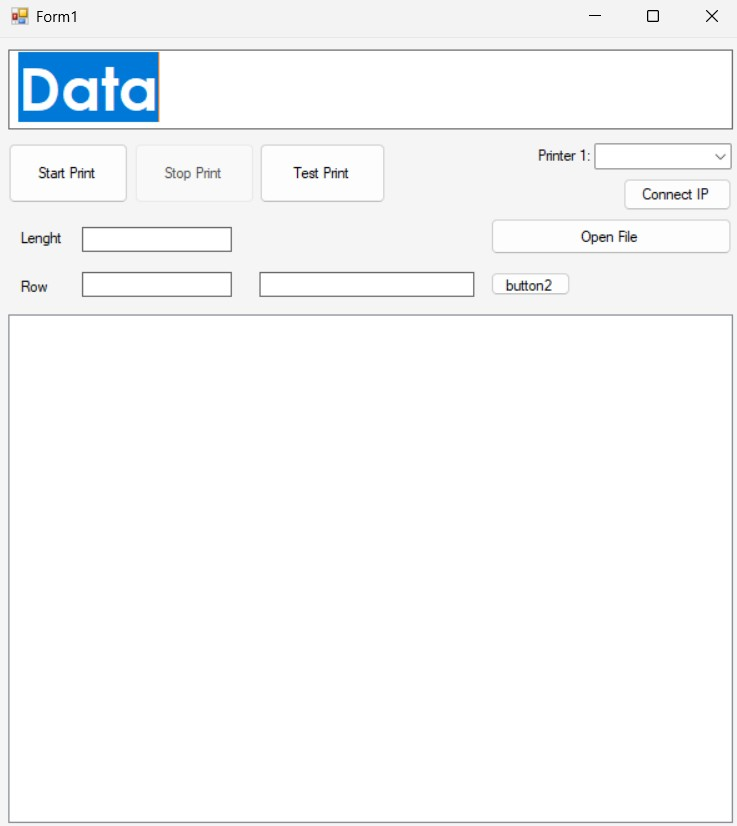
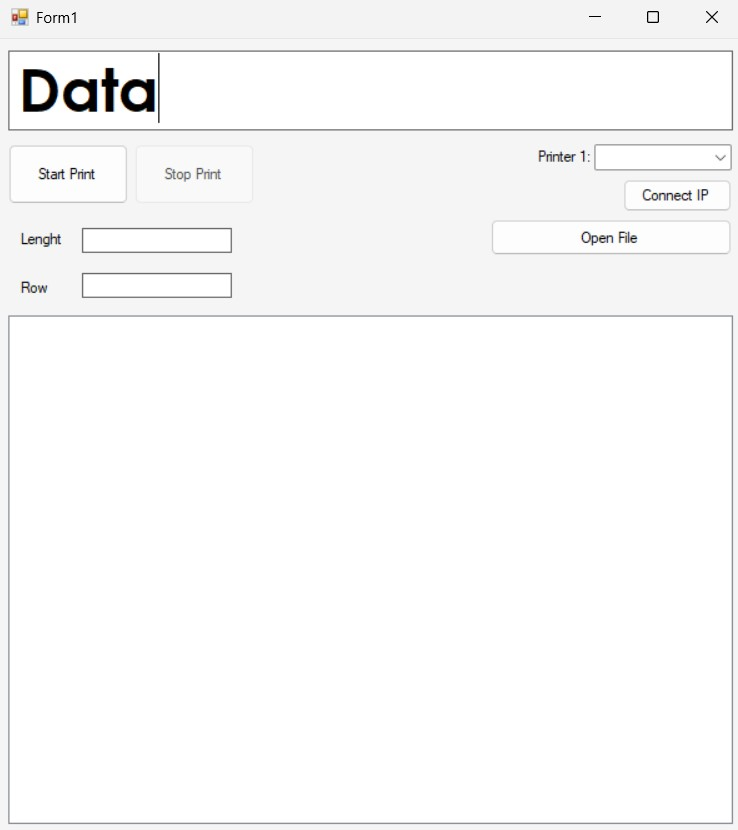
image

diff --git a/PT_Linx_DEMO/frmMain.Designer.cs b/PT_Linx_DEMO/frmMain.Designer.cs
@@ -86,6 +86,7 @@
             this.btnTest.TabIndex = 3;
             this.btnTest.Text = "Test Print";
             this.btnTest.UseVisualStyleBackColor = true;
+            this.btnTest.Visible = false;
             // 
             // txtPrintText
             // 
@@ -200,6 +201,7 @@
             this.textBox1.Name = "textBox1";
             this.textBox1.Size = new System.Drawing.Size(229, 22);
             this.textBox1.TabIndex = 13;
+            this.textBox1.Visible = false;
             // 
             // button2
             // 
@@ -209,6 +211,7 @@
             this.button2.TabIndex = 14;
             this.button2.Text = "button2";
             this.button2.UseVisualStyleBackColor = true;
+            this.button2.Visible = false;
             this.button2.Click += new System.EventHandler(this.button2_Click);
             // 
             // frmMain
